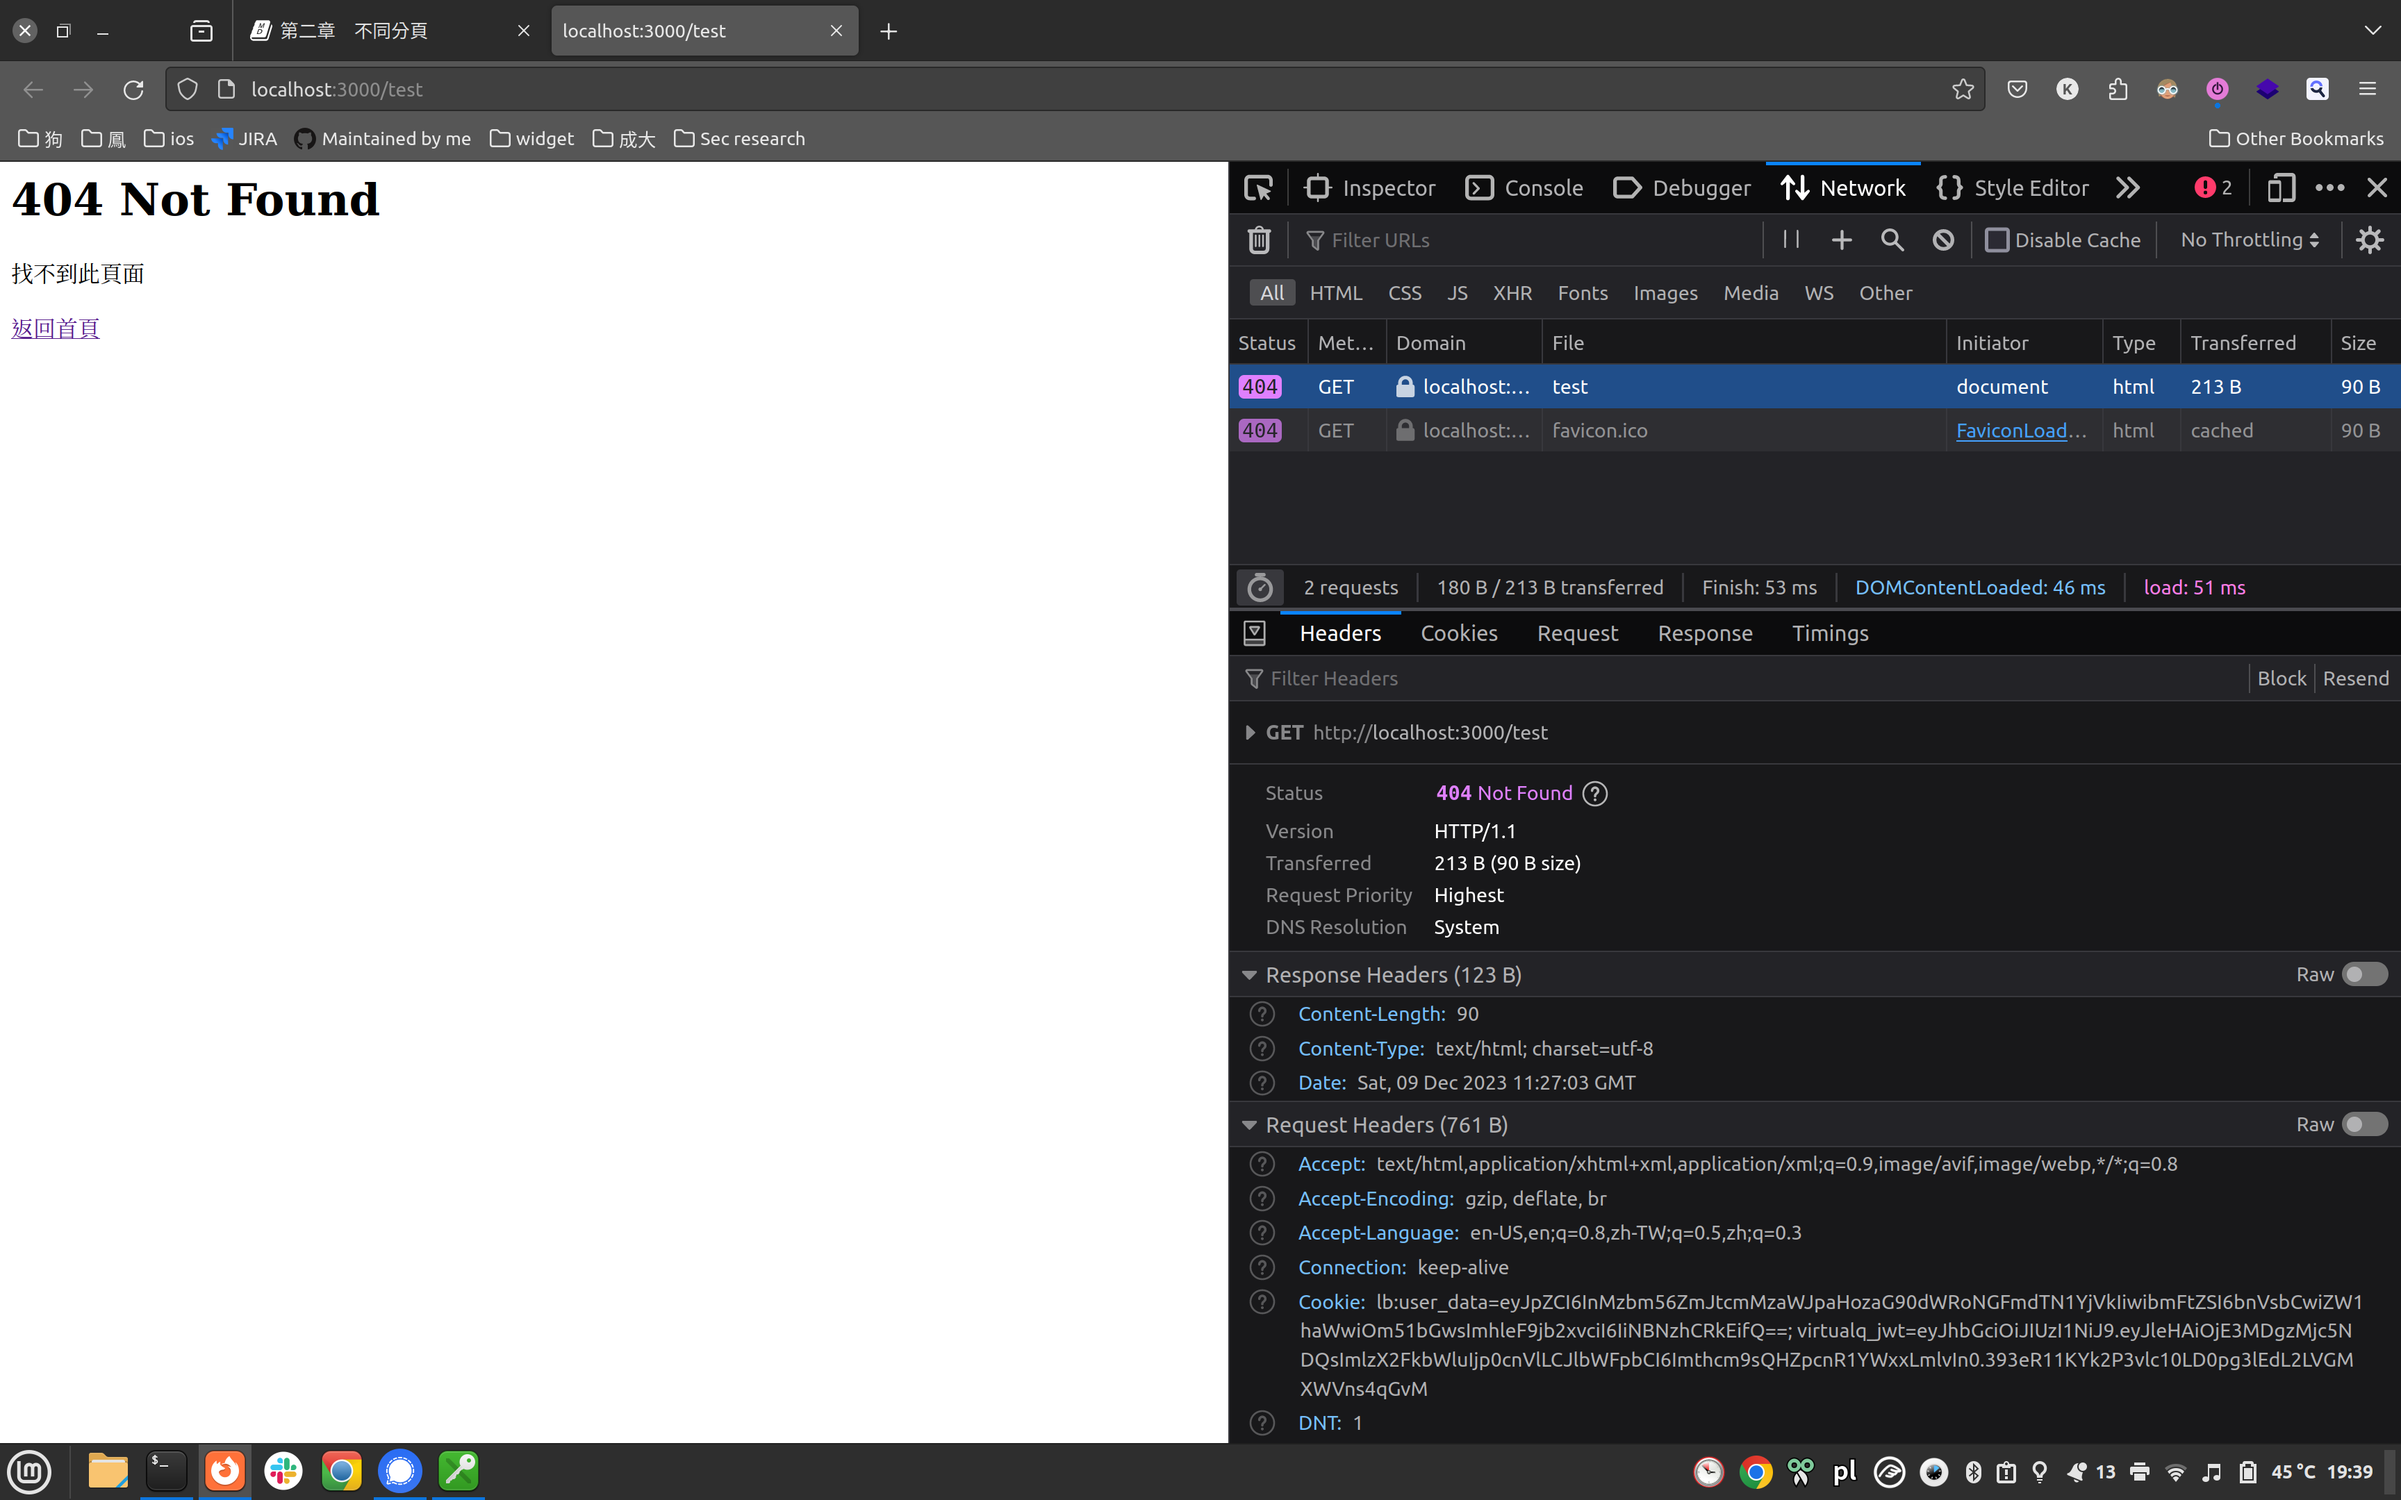
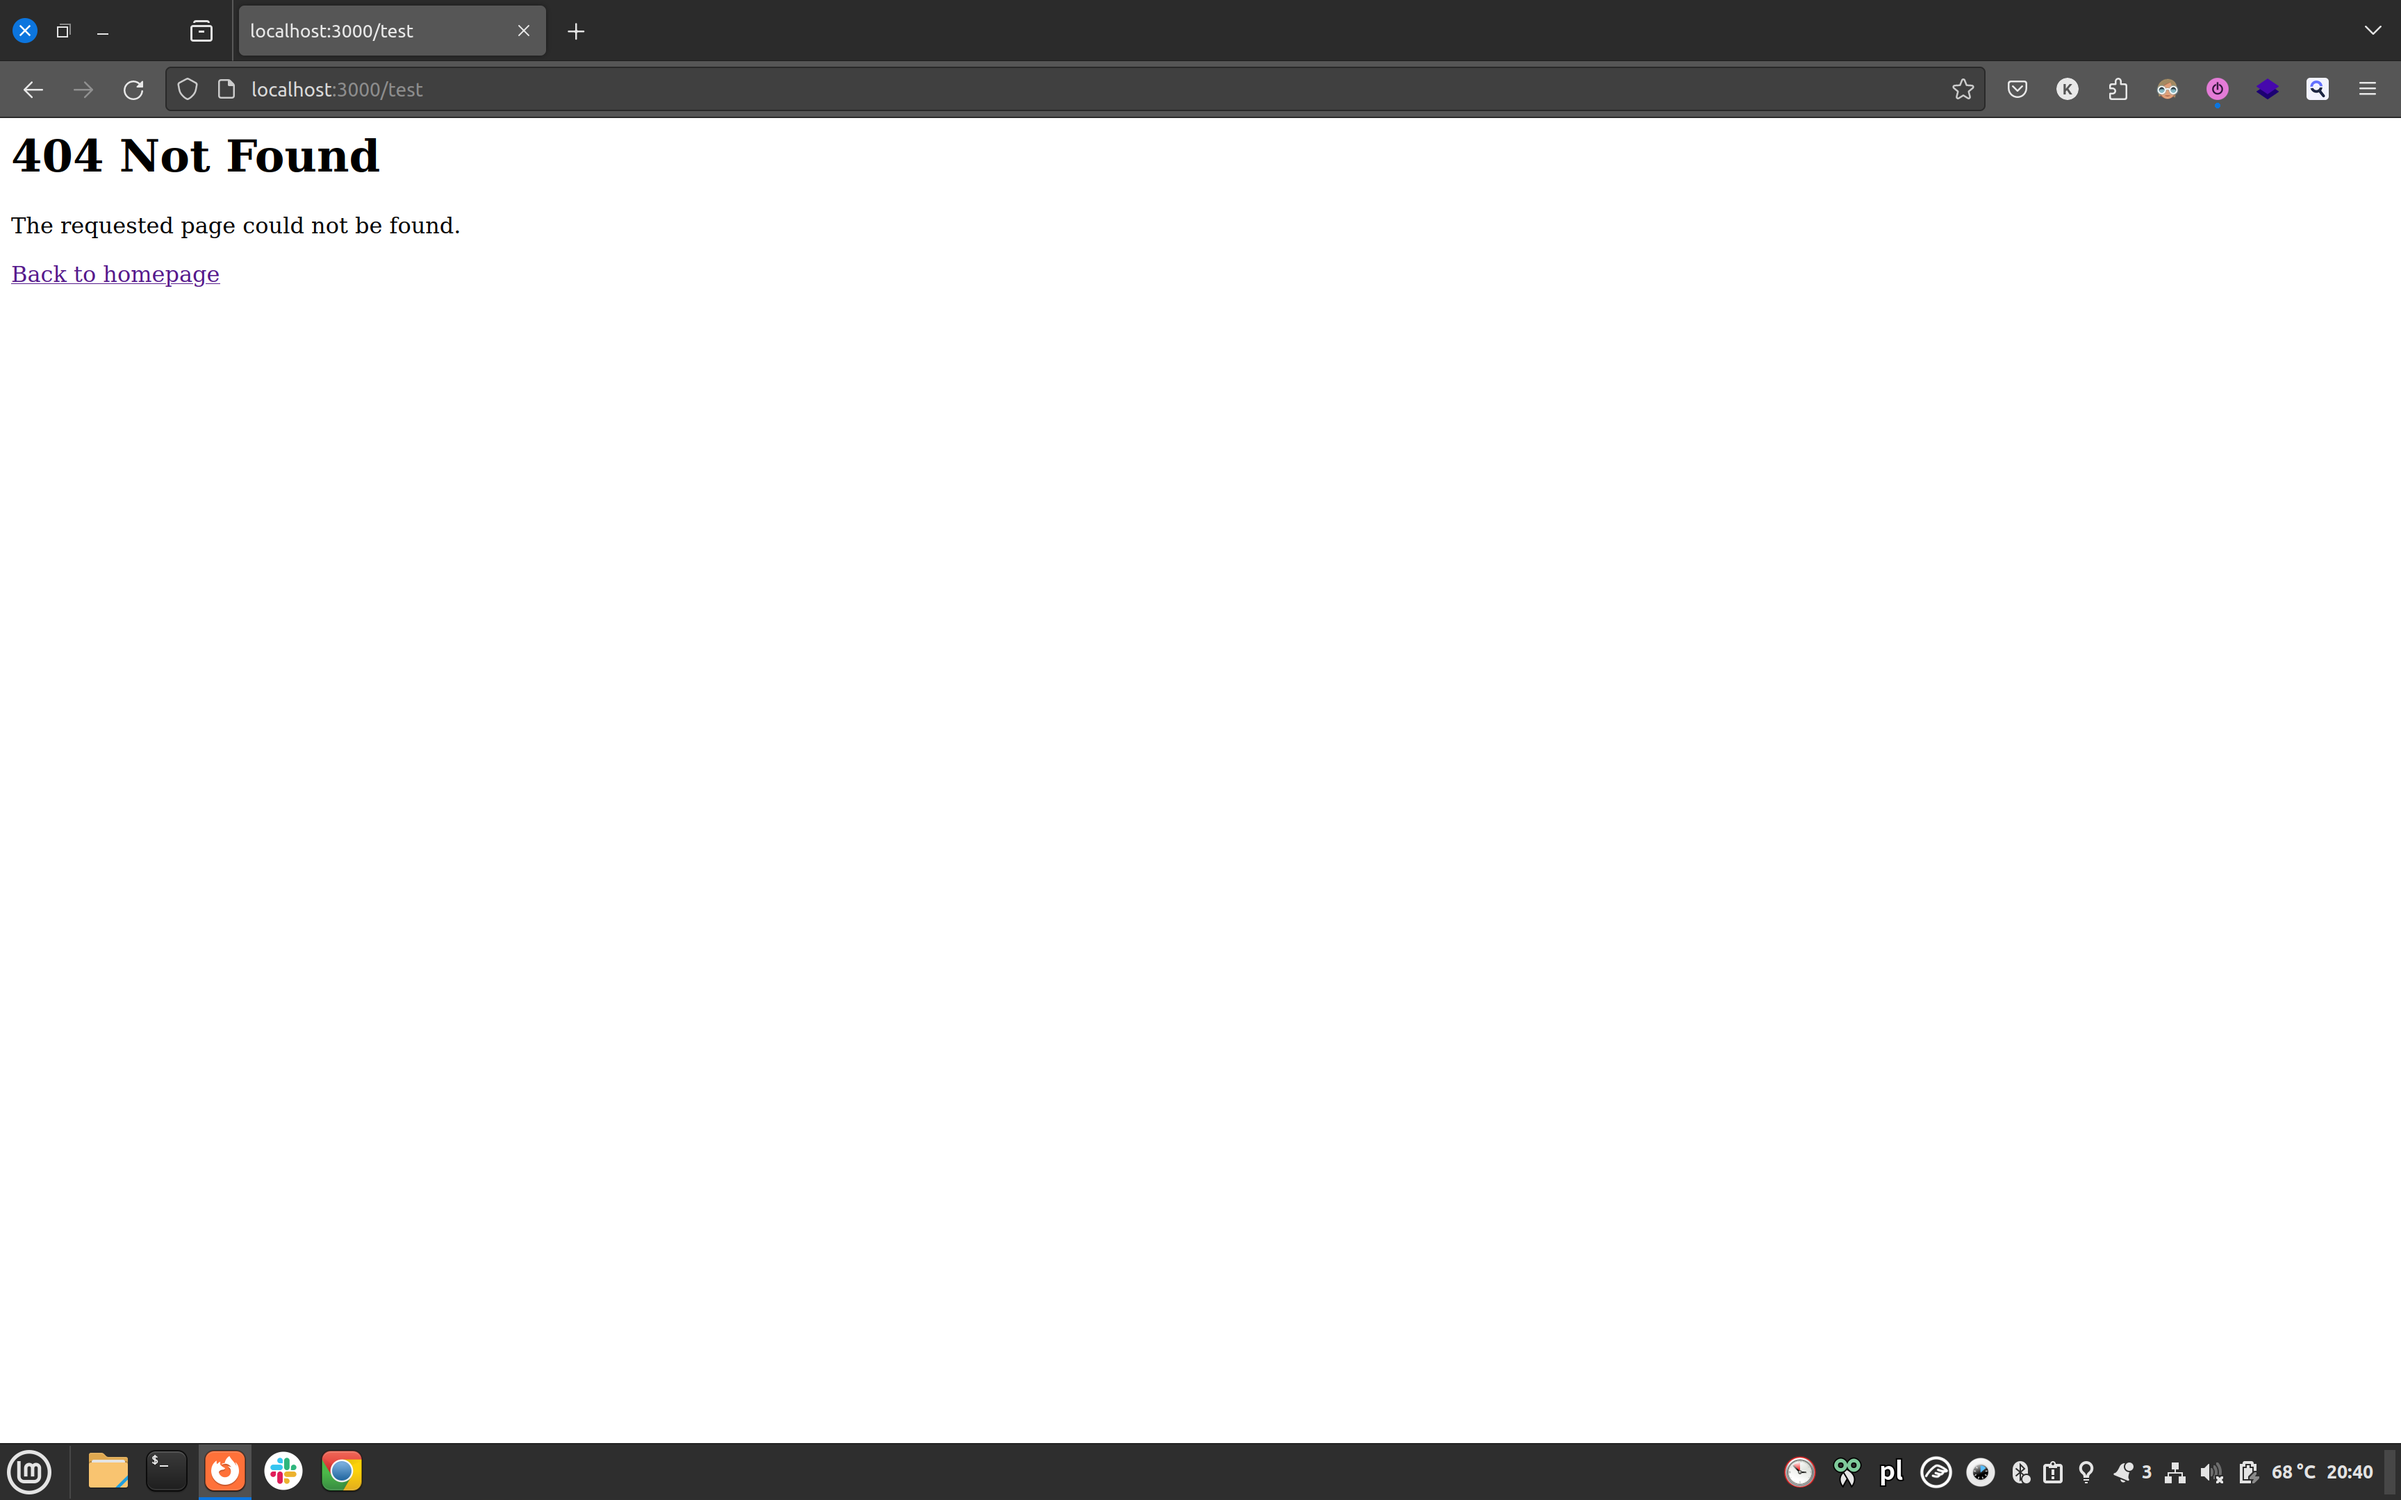
Redo all the screenshots in English

diff --git a/code/02-naive-routing/iterations/05/main.go b/code/02-naive-routing/iterations/05/main.go
@@ -15,15 +15,15 @@ func HandleRequest(w http.ResponseWriter, r *http.Request) {
 	// 首頁
 	case "/":
 		w.Write([]byte(`
-			<h1>歡迎光臨王小明的網站！</h1>
-			<a href="/contact">聯絡</a>
+			<h1>Welcome to Wang Xiaoming's Website!</h1>
+			<a href="/contact">Contact</a>
 		`))
 
 	// 聯絡資訊網站
 	case "/contact":
 		w.Write([]byte(`
-			<h1>聯絡資訊</h1>
-			<a href="/">返回首頁</a>
+			<h1>Contact me</h1>
+			<a href="/">Back to homepage</a>
 		`))
 
 	// 忽略任何其他路徑
@@ -32,8 +32,8 @@ func HandleRequest(w http.ResponseWriter, r *http.Request) {
 		w.WriteHeader(http.StatusNotFound)
 		w.Write([]byte(`
 			<h1>404 Not Found</h1>
-			<p>找不到此頁面</p>
-			<a href="/">返回首頁</a>
+			<p>The requested page could not be found.</p>
+			<a href="/">Back to homepage</a>
 		`))
 	}
 }

diff --git a/code/03-chi-router/iterations/03/main.go b/code/03-chi-router/iterations/03/main.go
@@ -22,15 +22,15 @@ func main() {
 
 func homeHandler(w http.ResponseWriter, r *http.Request) {
 	fmt.Fprint(w, `
-		<h1>歡迎光臨王小明的網站！</h1>
-		<a href="/contact">聯絡</a>
+		<h1>Welcome to Wang Xiaoming's Website!</h1>
+		<a href="/contact">Contact</a>
 	`)
 }
 
 func contactHandler(w http.ResponseWriter, r *http.Request) {
 	fmt.Fprint(w, `
-		<h1>聯絡資訊</h1>
-		<a href="/">返回首頁</a>
+		<h1>Contact me</h1>
+		<a href="/">Back to homepage</a>
 	`)
 }
 
@@ -39,7 +39,7 @@ func notFoundHandler(w http.ResponseWriter, r *http.Request) {
 	w.WriteHeader(http.StatusNotFound)
 	fmt.Fprint(w, `
 		<h1>404 Not Found</h1>
-		<p>找不到此頁面</p>
-		<a href="/">返回首頁</a>
+		<p>The requested page could not be found.</p>
+		<a href="/">Back to homepage</a>
 	`)
 }

diff --git a/code/02-naive-routing/iterations/03/main.go b/code/02-naive-routing/iterations/03/main.go
@@ -15,15 +15,15 @@ func HandleRequest(w http.ResponseWriter, r *http.Request) {
 	// 首頁
 	case "/":
 		w.Write([]byte(`
-			<h1>歡迎光臨王小明的網站！</h1>
-			<a href="/contact">聯絡</a>
+			<h1>Welcome to Wang Xiaoming's Website!</h1>
+			<a href="/contact">Contact</a>
 		`))
 
 	// 聯絡資訊網站
 	case "/contact":
 		w.Write([]byte(`
-			<h1>聯絡資訊</h1>
-			<a href="/">返回首頁</a>
+			<h1>Contact me</h1>
+			<a href="/">Back to homepage</a>
 		`))
 
 	// 忽略任何其他路徑

diff --git a/code/03-chi-router/iterations/02/main.go b/code/03-chi-router/iterations/02/main.go
@@ -22,14 +22,14 @@ func main() {
 
 func homeHandler(w http.ResponseWriter, r *http.Request) {
 	fmt.Fprint(w, `
-		<h1>歡迎光臨王小明的網站！</h1>
-		<a href="/contact">聯絡</a>
+		<h1>Welcome to Wang Xiaoming's Website!</h1>
+		<a href="/contact">Contact</a>
 	`)
 }
 
 func contactHandler(w http.ResponseWriter, r *http.Request) {
 	fmt.Fprint(w, `
-		<h1>聯絡資訊</h1>
-		<a href="/">返回首頁</a>
+		<h1>Contact me</h1>
+		<a href="/">Back to homepage</a>
 	`)
 }

diff --git a/code/02-naive-routing/iterations/04/main.go b/code/02-naive-routing/iterations/04/main.go
@@ -7,8 +7,8 @@ import (
 
 // HTML 的範例：這就是我們的首頁
 const SAMPLE_HTML = `
-<h1>歡迎光臨王小明的網站！</h1>
-<a href="/contact">聯絡</a>
+<h1>Welcome to Wang Xiaoming's Website!</h1>
+<a href="/contact">Contact</a>
 `
 
 // 簡單的 CSS 樣式範例

diff --git a/convert_images.rb b/convert_images.rb
@@ -1,0 +1,10 @@
+#!/usr/bin/env ruby
+
+images = Dir['./**/*.png'] + Dir['./**/*.jpg']
+
+for image in images
+  target = File.dirname(image) + '/' + File.basename(image, '.*') + '.webp'
+  next if File.exist?(target)
+
+  system "cwebp -lossless '#{image}' -o '#{target}'"
+end

diff --git a/src/02-naive-routing.md b/src/02-naive-routing.md
@@ -162,19 +162,19 @@ $ go run .
 ```
 
 <figure class="bordered-figure">
-<a href="/images/02/main.png" target="_blank" rel="noopener noreferrer"><img src="/images/02/main.png" /></a>
+<a href="/images/02/main.webp" target="_blank" rel="noopener noreferrer"><img src="/images/02/main.webp" /></a>
 <caption>執行以上程式，瀏覽至<code>http://localhost:3000</code>的畫面。</caption>
 </figure>
 
 <figure class="bordered-figure">
-<a href="/images/02/contact.png" target="_blank" rel="noopener noreferrer"><img src="/images/02/contact.png" /></a>
+<a href="/images/02/contact.webp" target="_blank" rel="noopener noreferrer"><img src="/images/02/contact.webp" /></a>
 <caption>點擊「聯絡」的連接後的畫面。</caption>
 </figure>
 
 然後，如果現在瀏覽到一個不存在的頁面的話，只看得到空白一片：
 
 <figure class="bordered-figure">
-<a href="/images/02/non-existent.png" target="_blank" rel="noopener noreferrer"><img src="/images/02/non-existent.png" /></a>
+<a href="/images/02/non-existent.webp" target="_blank" rel="noopener noreferrer"><img src="/images/02/non-existent.webp" /></a>
 <caption>瀏覽至不存在的頁面後只看得到空白一片。</caption>
 </figure>
 
@@ -336,7 +336,7 @@ $ go run .
 現在，首頁與聯絡資訊頁面都可以正常使用，而瀏覽至不存在的頁面時就會看到 404 分頁：
 
 <figure class="bordered-figure">
-<a href="/images/02/404-correct.png" target="_blank" rel="noopener noreferrer"><img src="/images/02/404-correct.png" /></a>
+<a href="/images/02/404-correct.webp" target="_blank" rel="noopener noreferrer"><img src="/images/02/404-correct.webp" /></a>
 <caption>瀏覽到 <code>http://localhost:3000/test</code> 的畫面。</caption>
 </figure>
 

diff --git a/src/03-chi-router.md b/src/03-chi-router.md
@@ -93,7 +93,7 @@ $ go run .
 由於還沒有新增任何路徑，瀏覽到任何網址徑都是 404：
 
 <figure class="bordered-figure">
-<a href="/images/03/chi-no-routes.png" target="_blank" rel="noopener noreferrer"><img src="/images/03/chi-no-routes.png" /></a>
+<a href="/images/03/chi-no-routes.webp" target="_blank" rel="noopener noreferrer"><img src="/images/03/chi-no-routes.webp" /></a>
 <caption>執行以上程式，瀏覽至<code>http://localhost:3000</code>的任何路徑，都只看得到 404 錯誤頁面。</caption>
 </figure>
 
@@ -182,7 +182,7 @@ func Fprint(w io.Writer, a ...any) (n int, err error)
 如果瀏覽到不存在的路徑，就會看到預設 404 錯誤頁面，如圖：
 
 <figure class="bordered-figure">
-<a href="/images/03/chi-404.png" target="_blank" rel="noopener noreferrer"><img src="/images/03/chi-404.png" /></a>
+<a href="/images/03/chi-404.webp" target="_blank" rel="noopener noreferrer"><img src="/images/03/chi-404.webp" /></a>
 <caption>瀏覽至不存在的路徑，就會看到預設的 404 錯誤頁面。</caption>
 </figure>
 
@@ -216,7 +216,7 @@ $ go run .
 ```
 
 <figure class="bordered-figure">
-<a href="/images/03/chi-custom-404.png" target="_blank" rel="noopener noreferrer"><img src="/images/03/chi-custom-404.png" /></a>
+<a href="/images/03/chi-custom-404.webp" target="_blank" rel="noopener noreferrer"><img src="/images/03/chi-custom-404.webp" /></a>
 <caption>瀏覽至不存在的路徑，就會看到與第二章小專案一樣的客製化 404 錯誤頁面。</caption>
 </figure>
 

diff --git a/src/01-server.md b/src/01-server.md
@@ -231,7 +231,7 @@ $ go run .
 打開瀏覽器，瀏覽至 `http://localhost:3000` 或 `http://127.0.0.1:3000` 應該就會看到以下畫面：
 
 <figure class="bordered-figure">
-<img src="/images/01/01.png" />
+<a href="/images/01/01.webp" target="_blank" rel="noopener noreferrer"><img src="/images/01/01.webp" /></a>
 <caption>執行以上程式，瀏覽至<code>http://localhost:3000</code>的畫面。</caption>
 </figure>
 
